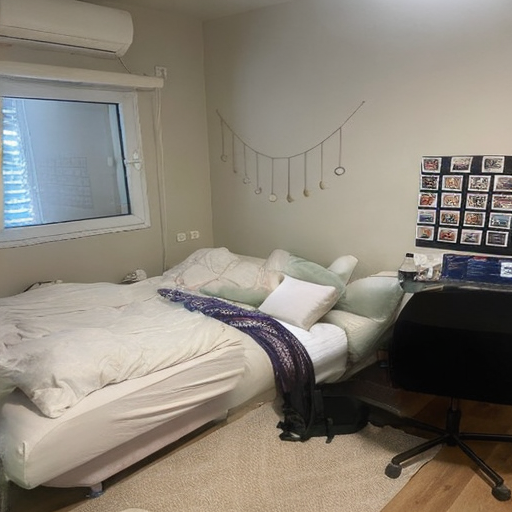
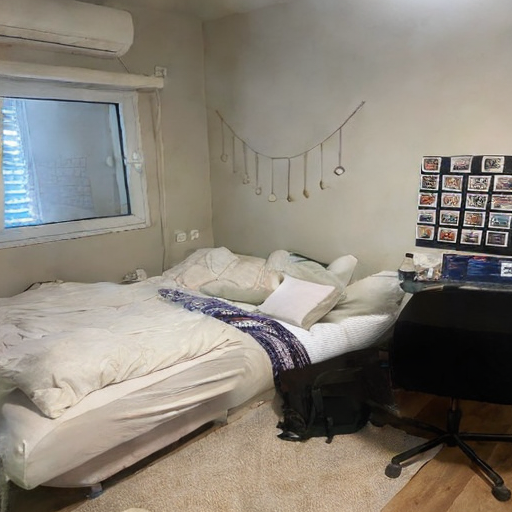
commit for pull force

diff --git a/vanilla_first_try.py b/vanilla_first_try.py
@@ -1,86 +1,120 @@
 import argparse
-import torch
 import os
+import torch
 from PIL import Image
-from diffusers import StableDiffusionInpaintPipeline
 
-def load_model(device: str) -> StableDiffusionInpaintPipeline:
-    """Load StableDiffusion 2 base into an inpainting pipeline."""
-    model_id = "sd2-community/stable-diffusion-2-base"
+from cliutils import preprocess_inputs, load_sd_pipeline
 
-    pipe = StableDiffusionInpaintPipeline.from_pretrained(
-        model_id,
-        torch_dtype=torch.float32,
-        use_auth_token=True,
-        safety_checker=None,
+
+# ---------------------------------------------------------
+# Vanilla DDPM inpainting sampler
+# --------------------------------------------------------
+
+@torch.no_grad()
+def ddpm_inpaint(
+        pipe,
+        image: Image.Image,
+        mask: torch.Tensor,
+        prompt: str,
+        steps: int,
+        guidance_scale: float,
+        seed: int,
+):
+    device = pipe.device
+    generator = torch.Generator(device).manual_seed(seed)
+
+    #Prepare masked image
+    image_tensor = pipe.image_processor.preprocess(image).to(device)
+    mask = mask.to(device)
+    image_tensor = image_tensor * mask
+
+    #Encode
+    known_latents = pipe.vae.encode(image_tensor).latent_dist.sample(generator)
+    known_latents *= pipe.vae.config.scaling_factor
+
+    # Downsample mask to latent resolution
+    mask = torch.nn.functional.interpolate(mask, size=known_latents.shape[2:], mode="nearest")
+
+    # Initial pure noise for the very first step
+    latents = torch.randn(known_latents.shape, generator=generator, device=device, dtype=known_latents.dtype)
+
+    # Text embeddings
+    prompt_embeds, negative_prompt_embeds = pipe.encode_prompt(
+        prompt,
+        device,
+        num_images_per_prompt=1,
+        do_classifier_free_guidance=True
     )
-    print(pipe)
-    pipe = pipe.to(device)
-    return pipe
+    text_embeddings = torch.cat([negative_prompt_embeds, prompt_embeds])
 
-def preprocess_inputs(image_path: str, mask_path: str, target_size=(512, 512)):
-    image = Image.open(image_path).convert("RGB")
-    mask = Image.open(mask_path).convert("L")
+    pipe.scheduler.set_timesteps(steps)
 
-    image = image.resize(target_size, Image.LANCZOS)
-    mask = mask.resize(target_size, Image.NEAREST)
+    for t in pipe.scheduler.timesteps:
 
-    mask_rgb = mask.convert("RGB")
-    return image, mask_rgb
+        # Clamp known region at noise level t
+        noise = torch.randn(known_latents.shape, generator=generator, device=device, dtype=known_latents.dtype)
+        noisy_known = pipe.scheduler.add_noise(known_latents, noise, t)
+        latents = (mask * noisy_known) + ((1 - mask) * latents)
 
-def run_inpainting(
-    pipe: StableDiffusionInpaintPipeline,
-    image: Image.Image,
-    mask: Image.Image,
-    prompt: str,
-    seed: int,
-    steps: int,
-    guidance_scale: float,
-) -> Image.Image:
-    generator = torch.Generator(device=pipe.device).manual_seed(seed)
+        # Predict noise
+        latent_input = torch.cat([latents] * 2)
+        noise_pred = pipe.unet(latent_input, t, encoder_hidden_states=text_embeddings).sample
+        noise_uncond, noise_text = noise_pred.chunk(2)
+        noise_pred = noise_uncond + guidance_scale * (noise_text - noise_uncond)
 
-    result = pipe(
-        prompt=prompt,
-        image=image,
-        mask_image=mask,
-        num_inference_steps=steps,
-        guidance_scale=guidance_scale,
-        generator=generator,
-    )
-    return result.images[0]
+        # Reverse sample
+        latents = pipe.scheduler.step(noise_pred, t, latents).prev_sample
 
+    latents = (mask * known_latents) + ((1 - mask) * latents)
+
+    # Decode the latents
+    latents /= pipe.vae.config.scaling_factor
+    image = pipe.vae.decode(latents).sample
+    image = pipe.image_processor.postprocess(image)[0]
+
+    return image
+
+
+# ---------------------------------------------------------
+# CLI SCRIPT
+# ---------------------------------------------------------
 def main():
-    parser = argparse.ArgumentParser(description="Inpainting with SD2 Base")
+    parser = argparse.ArgumentParser("Vanilla DDPM Inpainting")
     parser.add_argument("--image", required=True)
     parser.add_argument("--mask", required=True)
     parser.add_argument("--prompt", required=True)
-    parser.add_argument("--output_dir", default="output_vanila")
-    parser.add_argument("--seed", type=int, default=42)
+    parser.add_argument("--output_dir", default="output_ddpm")
     parser.add_argument("--steps", type=int, default=50)
-    parser.add_argument("--guidance-scale", type=float, default=7.5)
+    parser.add_argument("--guidance_scale", type=float, default=7.5)
+    parser.add_argument("--seed", type=int, default=42)
     args = parser.parse_args()
 
-    clean_prompt = "".join([c if c.isalnum() else "_" for c in args.prompt])
-    filename = f"{clean_prompt[:50]}_seed{args.seed}.png"
-    full_output_path = os.path.join(args.output_dir, filename)
-
-    if not os.path.exists(args.output_dir):
-        os.makedirs(args.output_dir)
+    os.makedirs(args.output_dir, exist_ok=True)
 
     device = "mps" if torch.backends.mps.is_available() else "cpu"
     print(f"Using device: {device}")
 
-    print("Loading model...")
-    pipe = load_model(device)
+    print("Loading vanilla diffusion model...")
+    pipe = load_sd_pipeline(device)
 
     print("Preprocessing inputs...")
     image, mask = preprocess_inputs(args.image, args.mask)
 
-    print(f"Running inpainting for prompt: '{args.prompt}'")
-    result = run_inpainting(pipe, image, mask, args.prompt, args.seed, args.steps, args.guidance_scale)
+    print("Running DDPM inpainting...")
+    result = ddpm_inpaint(
+        pipe=pipe,
+        image=image,
+        mask=mask,
+        prompt=args.prompt,
+        steps=args.steps,
+        guidance_scale=args.guidance_scale,
+        seed=args.seed,
+    )
 
-    result.save(full_output_path)
-    print(f"Saved result to: {full_output_path}")
+    out_path = os.path.join(args.output_dir, f"inpaint_seed{args.seed}.png")
+    result.save(out_path)
+    print(f"Saved result to: {out_path}")
+
 
 if __name__ == "__main__":
     main()
